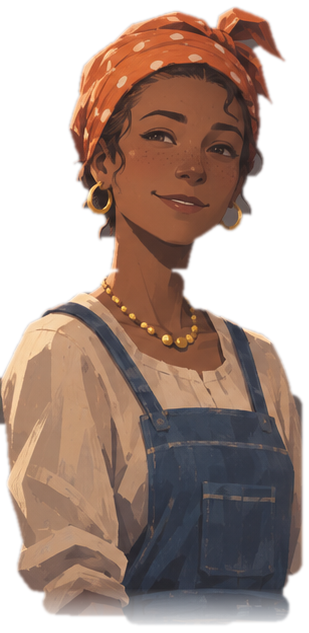
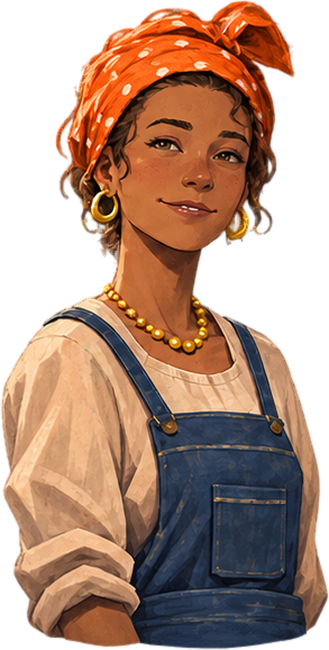
Bruma v0.7.5: retratos dos NPCs recortados da folha sem fundo
- Retratos de Zefa, Jacinto, Toinho, Rosa e Abílio refeitos a partir da folha sem fundo, sem halo nem franja.

Claude-Session: https://claude.ai/code/session_016UFxTBVdX3eT4ethx5aHNb

diff --git a/pescador3d/ferramentas/retratos/recortar_folha_transparente.py b/pescador3d/ferramentas/retratos/recortar_folha_transparente.py
@@ -1,0 +1,71 @@
+#!/usr/bin/env python3
+"""v0.7.5: recorta os 5 retratos da folha já sem fundo (arte_original/retratos/retratos_sem_fundo_v074.png).
+A folha vem com um halo avermelhado quase transparente em volta das figuras e o miolo com alfa 253: aqui o miolo
+vira opaco, o halo some, a cor da beirada é trocada pela do pixel opaco mais próximo (sem franja ao filtrar no jogo)
+e cada figura é cortada, aparada e posta na altura dos retratos antigos (650 px).
+Ordem na folha: Zefa, Jacinto, Toinho, Rosa, Abílio.   Uso: python3 ferramentas/retratos/recortar_folha_transparente.py"""
+import pathlib
+import numpy as np
+from PIL import Image, ImageFilter
+from scipy import ndimage
+
+RAIZ = pathlib.Path(__file__).resolve().parent.parent.parent
+FOLHA = RAIZ / "arte_original" / "retratos" / "retratos_sem_fundo_v074.png"
+DEST = RAIZ / "assets" / "retratos"
+NOMES = ["zefa", "jacinto", "toinho", "rosa", "abilio"]
+ALTURA = 650
+
+def limpar(img: Image.Image) -> Image.Image:
+    A = np.array(img.convert("RGBA")).astype(np.float32)
+    a = A[..., 3]
+    # alfa: o halo fraco (< 60) some, o miolo (>= 235) fica opaco, a beirada entre os dois vira uma rampa
+    novo = np.clip((a - 60.0) / (235.0 - 60.0), 0.0, 1.0)
+    # tira farelos soltos (pontinhos do halo que passaram do limiar)
+    figura = novo > 0.5
+    rot, n = ndimage.label(figura)
+    if n > 0:
+        tam = ndimage.sum(figura, rot, range(1, n + 1))
+        grandes = np.isin(rot, 1 + np.flatnonzero(tam > 400))
+        perto = ndimage.binary_dilation(grandes, iterations=3)
+        novo *= perto
+    # cor da beirada = cor do pixel firme mais próximo (alfa >= 0.97), para não sobrar franja vermelha
+    firme = novo >= 0.97
+    _, (iy, ix) = ndimage.distance_transform_edt(~firme, return_indices=True)
+    rgb = A[..., :3].copy()
+    beirada = ~firme
+    rgb[beirada] = A[..., :3][iy[beirada], ix[beirada]]
+    # alfa levemente suavizado (meio pixel) para a borda não serrilhar
+    alfa = Image.fromarray((novo * 255).astype(np.uint8)).filter(ImageFilter.GaussianBlur(0.6))
+    out = Image.fromarray(np.dstack([rgb.astype(np.uint8), np.array(alfa)]), "RGBA")
+    return out
+
+def colunas(a: np.ndarray) -> list:
+    ocupada = (a > 60).any(0)
+    seg, ini = [], None
+    for x, v in enumerate(ocupada):
+        if v and ini is None:
+            ini = x
+        if not v and ini is not None:
+            seg.append((ini, x))
+            ini = None
+    if ini is not None:
+        seg.append((ini, len(ocupada)))
+    return [s for s in seg if s[1] - s[0] > 60]
+
+def main():
+    folha = Image.open(FOLHA).convert("RGBA")
+    segs = colunas(np.array(folha)[..., 3])
+    if len(segs) != len(NOMES):
+        raise SystemExit("achei %d figuras, esperava %d" % (len(segs), len(NOMES)))
+    for nome, (x0, x1) in zip(NOMES, segs):
+        recorte = folha.crop((max(0, x0 - 6), 0, min(folha.width, x1 + 6), folha.height))
+        limpo = limpar(recorte)
+        caixa = limpo.split()[3].point(lambda v: 255 if v > 8 else 0).getbbox()
+        limpo = limpo.crop(caixa)
+        k = ALTURA / limpo.height
+        limpo = limpo.resize((round(limpo.width * k), ALTURA), Image.LANCZOS)
+        limpo.save(DEST / (nome + ".png"), optimize=True)
+        print(nome, limpo.size)
+
+if __name__ == "__main__":
+    main()
